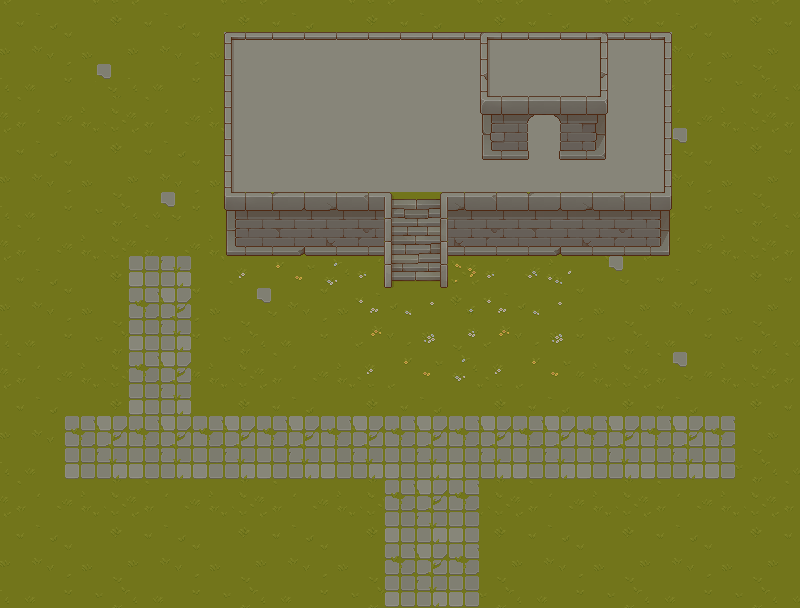
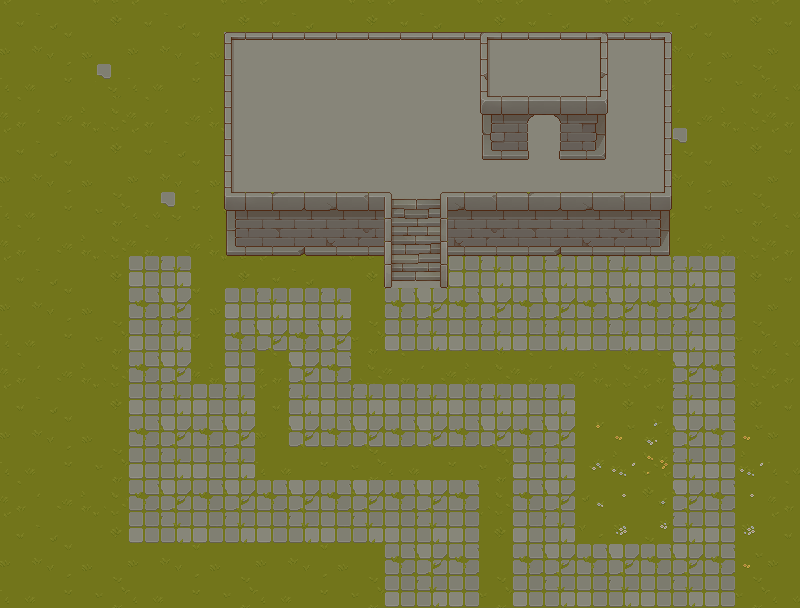
did many things

Changed region(s): [[0.0625, 0.4062, 0.9375, 1.0], [0.4688, 0.3125, 0.5625, 0.3438]]

diff --git a/CSS/style.css b/CSS/style.css
@@ -48,10 +48,101 @@ body{
     left: 528px;
     top: 114px;
 }
-#doortwo{
-    background-color: white;
+#grass1{
+   /* background-color: white;*/
+    width: 256px;
+    height: 32px;
+    left: 256px;
+    top: 447px;
+}
+#grass2{
+   /* background-color: white;*/
     width: 32px;
-    height: 47px;
-    left: 69px;
-    top: 69px;
+    height: 129px;
+    left: 480px;
+    top: 478px;
+}
+#grass3{
+   /* background-color: white;*/
+    width: 384px;
+    height: 64px;
+    left: 0px;
+    top: 544px;
+}
+#grass4{
+  /* background-color: white;*/
+    width: 128px;
+    height: 544px;
+    left: 0px;
+    top: 0px;
+}
+#grass5{
+   /* background-color: white;*/
+    width: 94px;
+    height: 255px;
+    left: 128px;
+    top: 0px;
+}
+#grass6{
+  /*  background-color: white;*/
+    width: 31px;
+    height: 128px;
+    left: 192px;
+    top: 255px;
+}
+#grass7{
+   /* background-color: white;*/
+    width: 32px;
+    height: 96px;
+    left: 256px;
+    top: 351px;
+}
+#grass8{
+  /*  background-color: white;*/
+    width: 158px;
+    height: 32px;
+    left: 223px;
+    top: 256px;
+}
+#grass9{
+   /* background-color: white;*/
+    width: 32px;
+    height: 96px;
+    left: 352px;
+    top: 287px;
+}
+#grass10{
+   /* background-color: white;*/
+    width: 288px;
+    height: 31px;
+    left: 384px;
+    top: 352px;
+}
+#grass11{
+  /*  background-color: white;*/
+    width: 96px;
+    height: 159px;
+    left: 576px;
+    top: 383px;
+}
+#grass12{
+   /* background-color: white;*/
+    width: 63px;
+    height: 353px;
+    left: 737px;
+    top: 255px;
+}
+#grass13{
+   /* background-color: white;*/
+    width: 127px;
+    height: 255px;
+    left: 673px;
+    top: 0px;
+}
+#grass14{
+    /*background-color: white;*/
+    width: 451px;
+    height: 31px;
+    left: 222px;
+    top: 0px;
 }

diff --git a/index.html b/index.html
@@ -11,12 +11,23 @@
     <h1 id="maintitle"></h1>
     <div id="gameWindow">
  <!---foreground layer-->
-<div id="doorone" class="gameObject foreground">
-
-</div>
-<div id="doortwo" class="gameObject foreground">
-
-</div>
+ 
+<div id="doorone" class="gameObject foreground"></div>
+<div id="grass1" class="gameObject foreground"></div>
+<div id="grass2" class="gameObject foreground"></div>
+<div id="grass3" class="gameObject foreground"></div>
+<div id="grass4" class="gameObject foreground"></div>
+<div id="grass5" class="gameObject foreground"></div>
+<div id="grass6" class="gameObject foreground"></div>
+<div id="grass7" class="gameObject foreground"></div>
+<div id="grass8" class="gameObject foreground"></div>
+<div id="grass9" class="gameObject foreground"></div>
+<div id="grass10" class="gameObject foreground"></div>
+<div id="grass11" class="gameObject foreground"></div>
+<div id="grass12" class="gameObject foreground"></div>
+<div id="grass13" class="gameObject foreground"></div>
+<div id="grass14" class="gameObject foreground"></div>
+ 
  <!--main character layer-->
 <div id="mainCharacter" class="gameObject character">
 <img src="img/mainCharacter.png" alt="mainCharacter">

diff --git a/js/index.js b/js/index.js
@@ -13,14 +13,28 @@ gamewindow.onclick = function(e){
 
     console.log(e.target.id);
 
+function dectectcollision(one,two){
+    rect1=document.getElementById(one);
+    rect2=document.getElementById(two);
+
+    if (rect1.left < rect2.right && rect1.right > rect2.left &&
+        rect1.top < rect2.bottom && rect1.bottom > rect2.top) {
+            console.log("collision");
+        }
+}
+
     switch(e.target.id){
     case "doorone":
         console.log("lets go trough");
         break;
     
-    case "doortwo":
-    console.log("there is nothing here");
+    case "grass1":
+        document.getElementById("mainCharacter").style.left = "407px";
+        document.getElementById("mainCharacter").style.top = "494px";
+    console.log("died of grass poison");
     break;
+
+
     default:
         console.log("there is nothing here")
         break;
